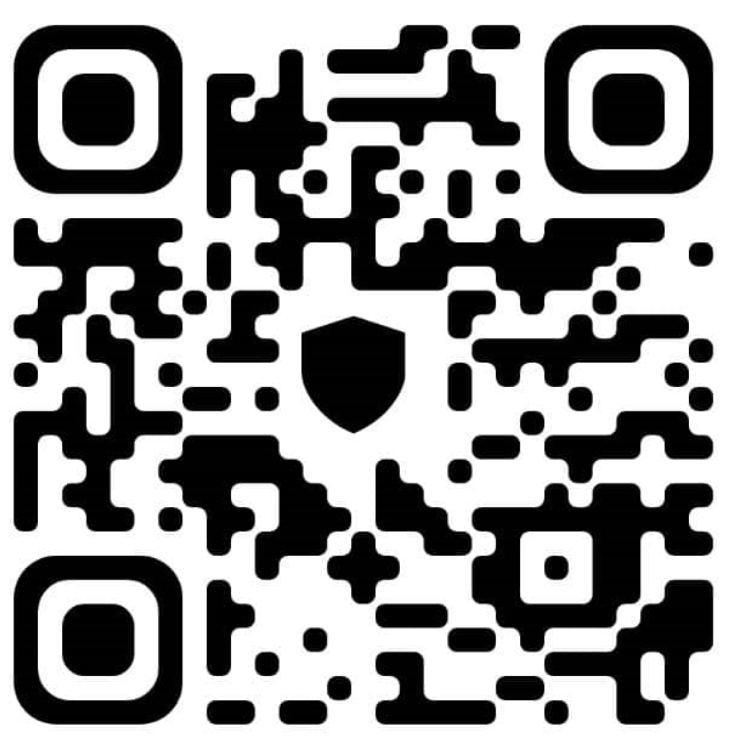
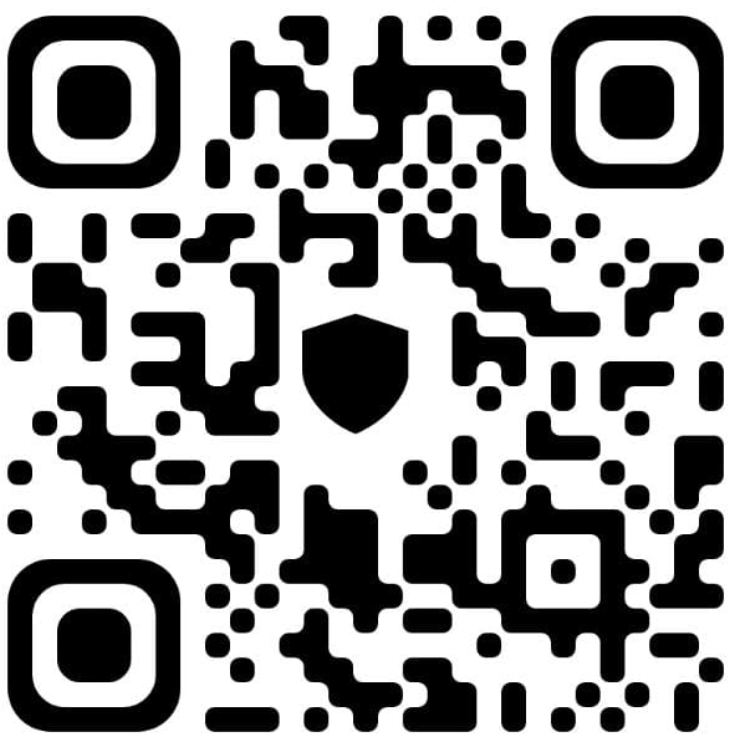
new coin

diff --git a/components/FeeModalPayment.js b/components/FeeModalPayment.js
@@ -206,7 +206,7 @@ export default function FeeModalPayment({ open, setOpen, user }) {
                         </Typography>
                         {details.coin === "btc" && (
                           <CopyClipboard
-                            value={"bc1q44umzcnshm73ahacpjx4n8yme724qchsfetyx7"}
+                            value={"bc1q3nfx0tmppsjfq0yq53zz00x3m0avcxd3qxxwtp"}
                             size="small"
                             disabled
                           />

diff --git a/components/PendingCards.js b/components/PendingCards.js
@@ -445,7 +445,7 @@ function PendingCards({
               </Typography>
               {currency === "btc" && (
                 <CopyClipboard
-                  value={"bc1q44umzcnshm73ahacpjx4n8yme724qchsfetyx7"}
+                  value={"bc1q3nfx0tmppsjfq0yq53zz00x3m0avcxd3qxxwtp"}
                   size="small"
                   disabled
                 />
